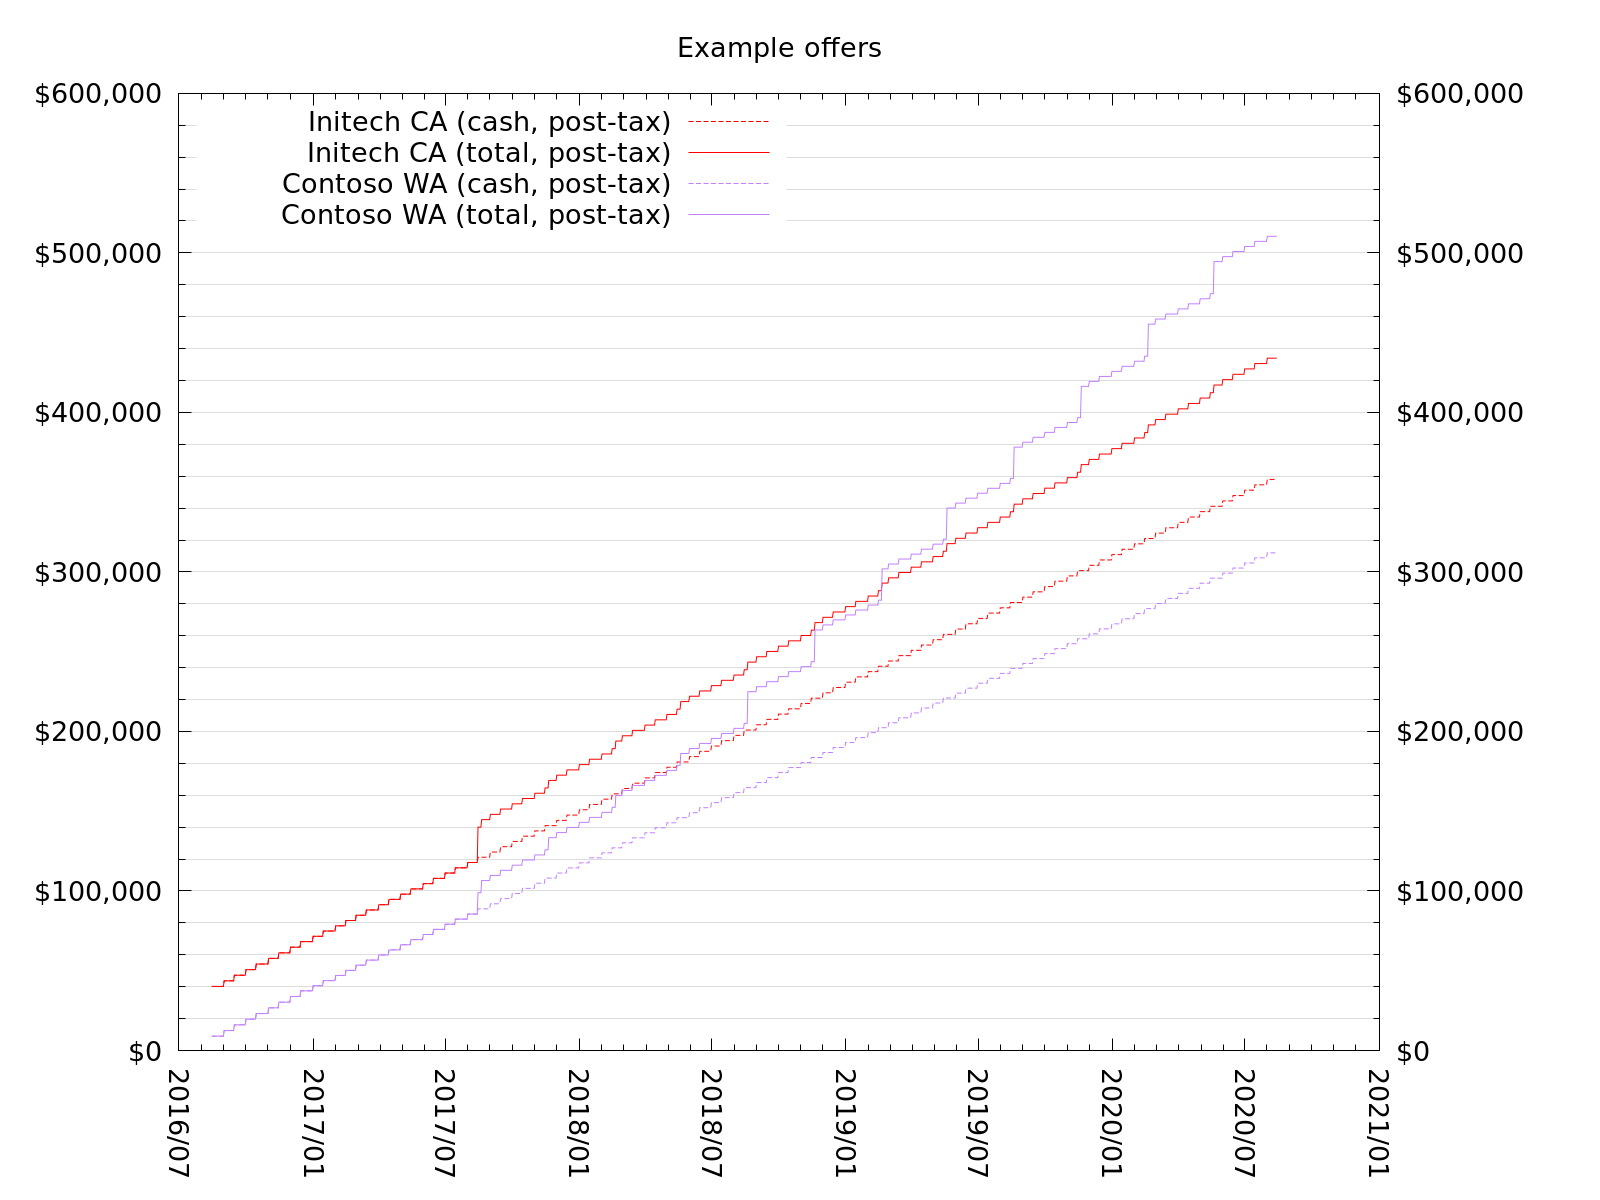
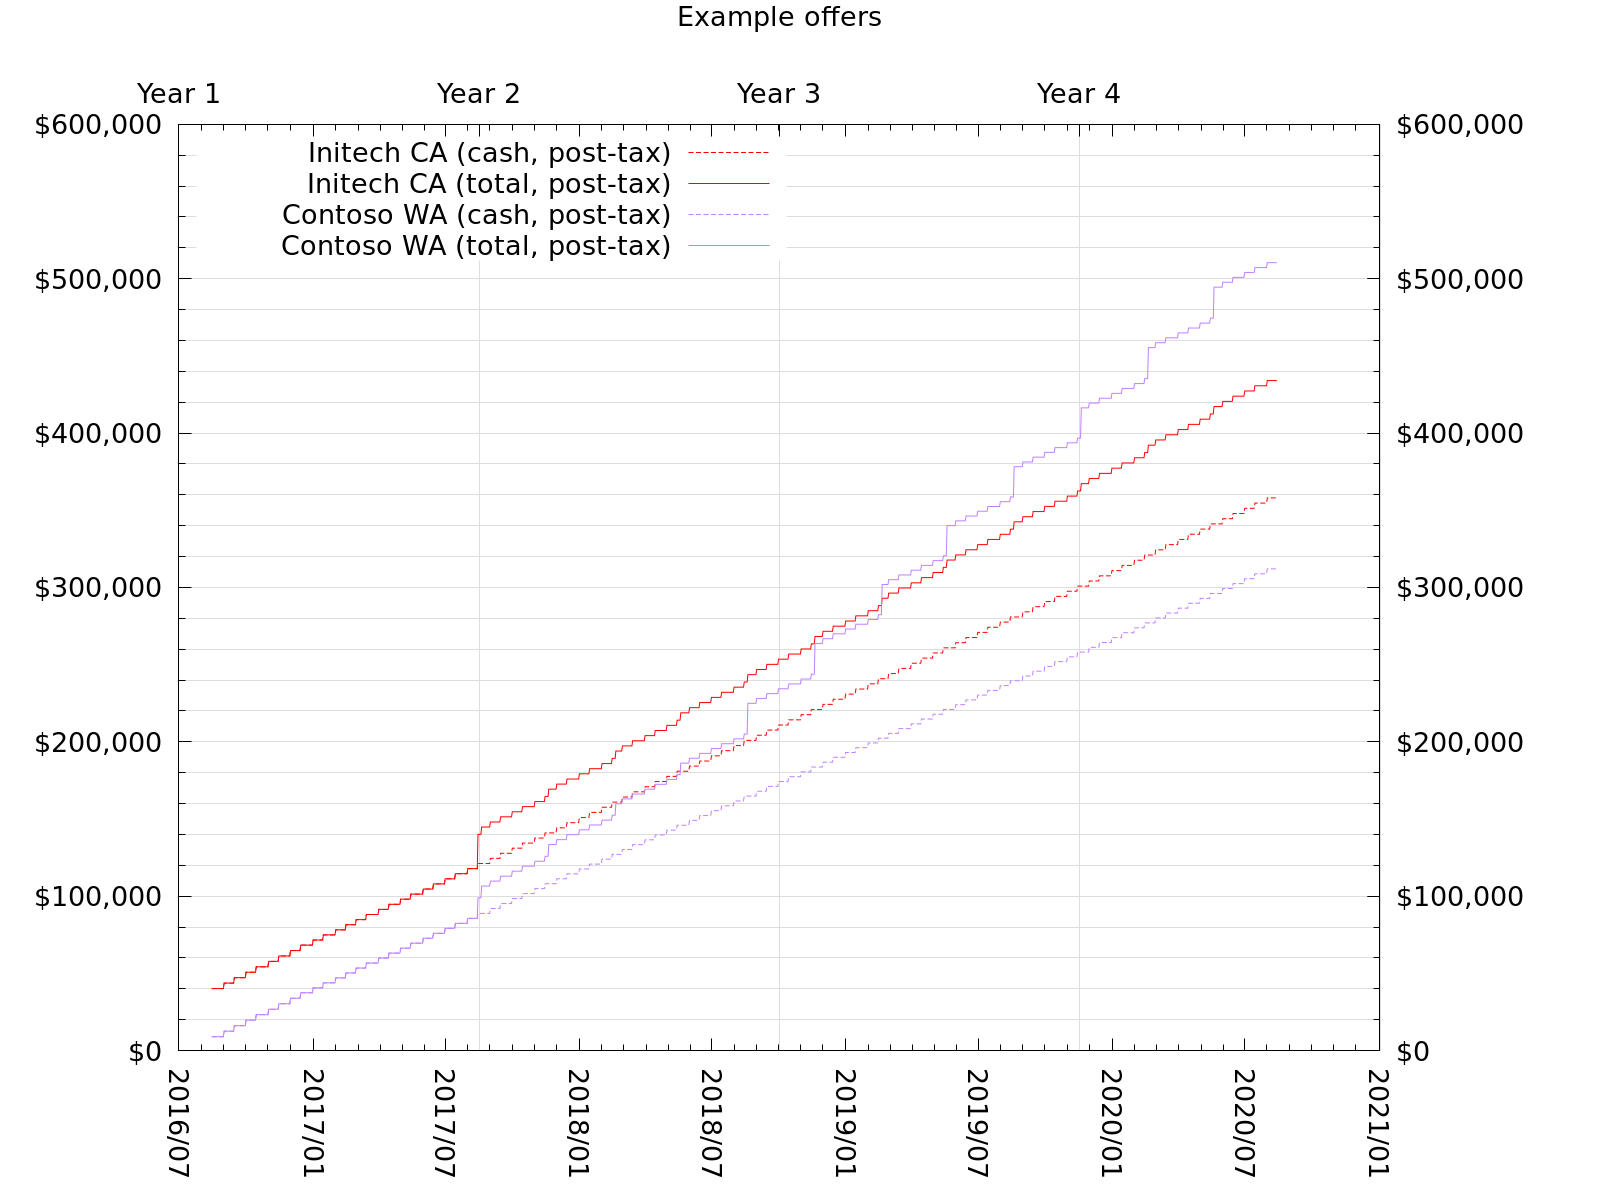
add --notaxes option to command line; add year vertical lines

diff --git a/valleyjudge.py b/valleyjudge.py
@@ -2,7 +2,7 @@
 
 import sys
 from collections import namedtuple
-from datetime import date, timedelta
+from datetime import date, datetime, timedelta
 from collections import defaultdict, Iterable
 import numbers
 from types import new_class
@@ -442,6 +442,7 @@ def make_vests(
     d = cliff_vest_day + timedelta(days=1)
     while annual_ratios:
         if (d.month, d.day) in vesting_dates:
+            dist_from_cliff = d - cliff_vest_day
             frac = annual_ratios[0] / len(vesting_dates)
             vests.append((d, frac * total))
             nrv += 1
@@ -470,7 +471,10 @@ def make_earnings_table(
         already_earned_first_year,
         already_earned_state,
         paydays):
-    end_date = start_date.replace(year = start_date.year + nr_years)
+    end_date = start_date.replace(
+        year = start_date.year + nr_years,
+    )
+    end_date += timedelta(days=1)
     vests = []
     for offer in offers:
         offer_vests = []
@@ -616,10 +620,15 @@ def make_offer_comparison(
                     default=DEFAULT_TERMINAL)
     ap.add_argument("--output", help="gnuplot output",
                     default=None)
+    ap.add_argument("--notaxes", help="Disable tax calculation",
+                    action="store_true")
     args = ap.parse_args(argv[1:])
 
     logging_level = logging.DEBUG if args.debug else logging.WARNING
     logging.basicConfig(level=logging_level)
+
+    if args.notaxes:
+        taxes = None
 
     colors = list(reversed(AUTO_COLORS))
     offer_colors = tuple(o.color or colors.pop() for o in offers)
@@ -645,16 +654,28 @@ def make_offer_comparison(
     if args.output is not None:
         formatting.append('set output ' + gnuplot_quote(args.output))
 
+    manual_top_tics = []
+    epoch = datetime.utcfromtimestamp(0)
+    for yearno in range(0, nr_years+3):
+        anniversary = start_date.replace(year = start_date.year + yearno)
+        anniversary_dt = datetime.combine(anniversary, datetime.min.time())
+        anniversary_unix_time = (anniversary_dt - epoch).total_seconds()
+        label = "Year %u" % (yearno+1)
+        manual_top_tics.append(
+            "%s %r" % (gnuplot_quote(label), anniversary_unix_time) )
+
     formatting.extend([
         'set decimal locale',
+        'set link x',
         'set xdata time',
         'set xtics rotate by -90',
+        'set x2tics (%s)' % ",".join(manual_top_tics),
         'set timefmt "%Y-%m-%d"',
         'set format x "%Y/%m"',
         'set format y "$%\'.0f"',
         'set key left',
         'set linestyle 10 lc rgb "#dddddd" lw 1',
-        'set grid ytics mytics linestyle 10',
+        'set grid ytics mytics x2tics linestyle 10',
         'set mytics',
         'set y2tics',
         'set format y2 "$%\'.0f"',
